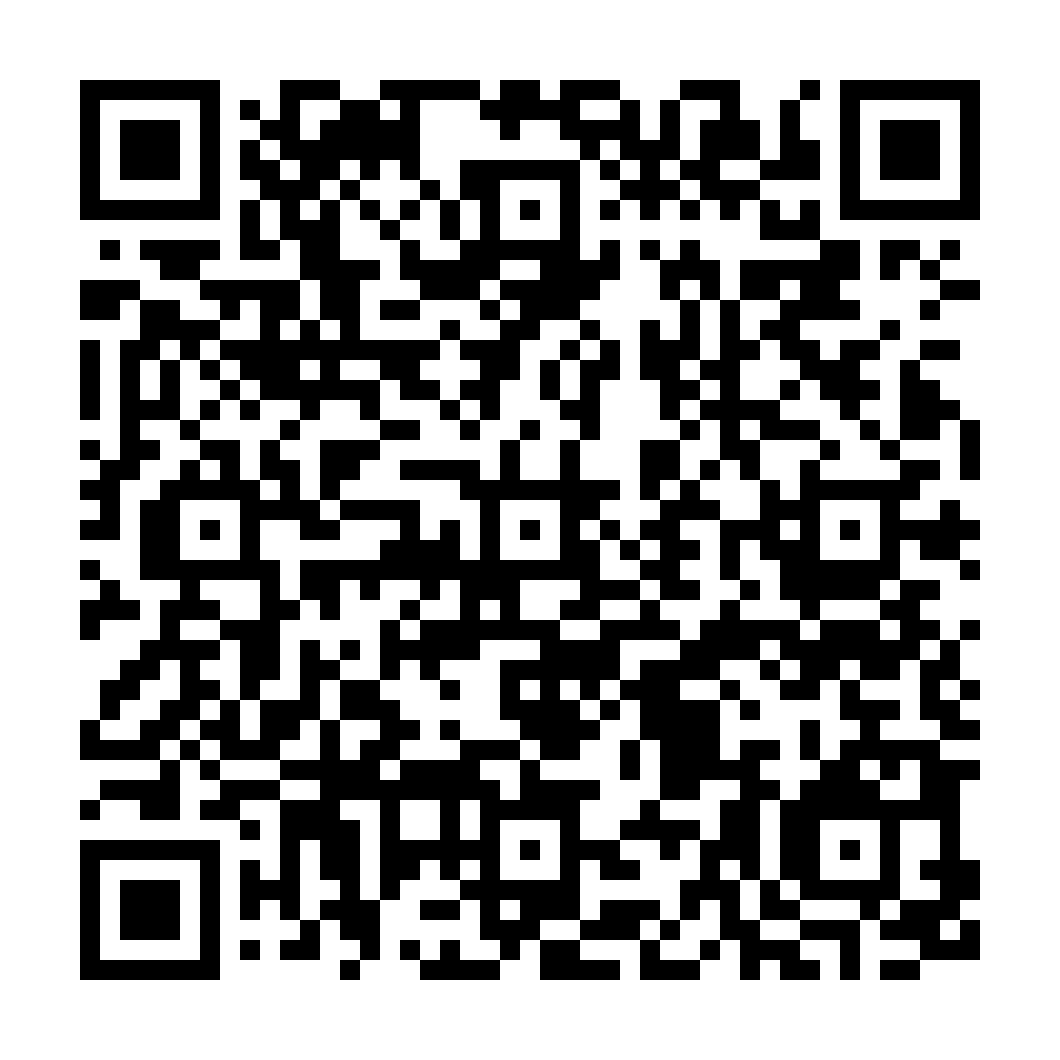
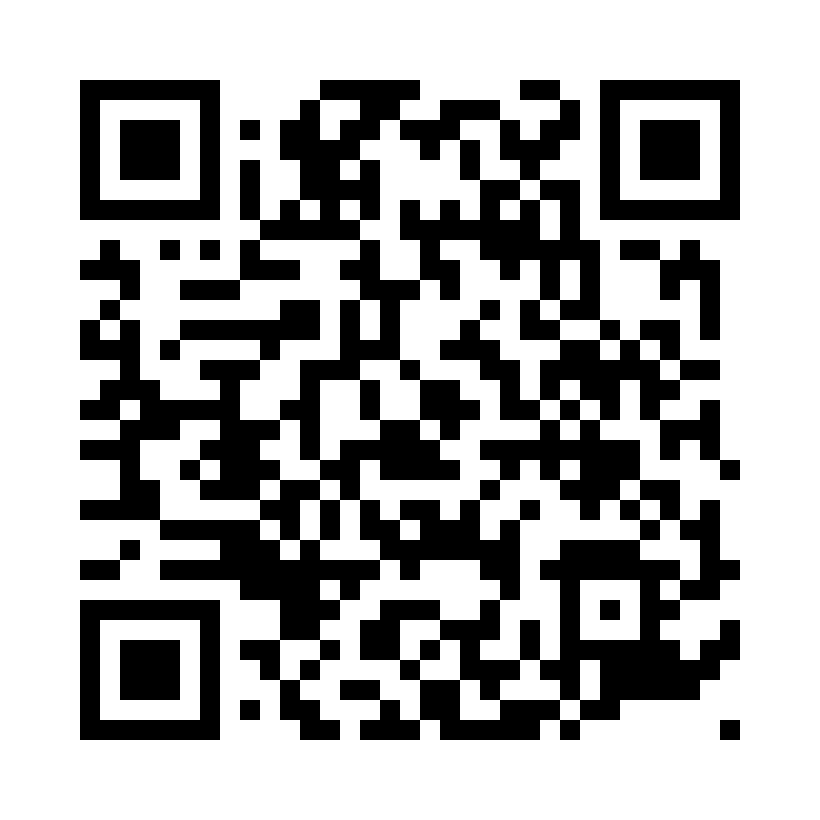
autoplay

diff --git a/index.html b/index.html
@@ -1,9 +1,13 @@
 <!DOCTYPE html>
 <html>
+<meta charset="UTF-8">
+<meta name="viewport" content="width=device-width, initial-scale=1">
 <body>
 
-<iframe width="420" height="345" src="https://www.youtube.com/embed/oKZSXAZWsP0?controls=0">
+
+<iframe width="420" height="345" autoplay src="https://www.youtube.com/embed/oKZSXAZWsP0?controls=0">
 </iframe>
 
 </body>
 </html>
+

diff --git a/Program.cs b/Program.cs
@@ -6,7 +6,7 @@ class Program
     static void Main(string[] args)
     {
         QRCodeGenerator qrGenerator = new QRCodeGenerator();
-        QRCodeData qrCodeData = qrGenerator.CreateQrCode("https://drive.google.com/file/d/1cvvHeCfOzSuMLXFt9IespWblsJ7uRkgG/view?usp=drive_link", QRCodeGenerator.ECCLevel.Q);
+        QRCodeData qrCodeData = qrGenerator.CreateQrCode("https://cmandree.github.io/video/", QRCodeGenerator.ECCLevel.Q);
         
         //QRCodeData qrCodeData = qrGenerator.CreateQrCode("https://www.youtube.com/watch_popup?v=oKZSXAZWsP0", QRCodeGenerator.ECCLevel.Q);
         //QRCodeData qrCodeData = qrGenerator.CreateQrCode("https://youtu.be/oKZSXAZWsP0?si=0f9rXcFRlVbqfPQK", QRCodeGenerator.ECCLevel.Q);
